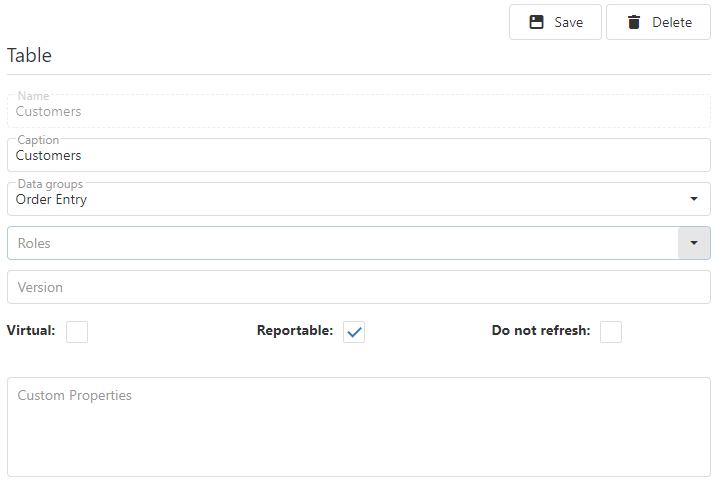
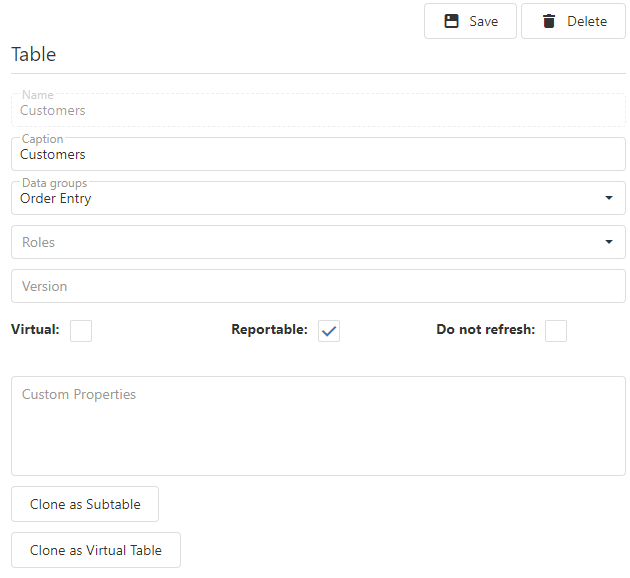
Updated topics for subtable and virtual table for new creation method. Updated screenshots.

diff --git a/_docs/studio/datadictionary/creating-a-subtable.md b/_docs/studio/datadictionary/creating-a-subtable.md
@@ -31,9 +31,9 @@ Horizon Reports provides the ability to define aliases for tables by defining a 
 
 Subtables aren't just useful for multiple relationships between a pair of tables; they can also be used for self-joins. For example, you may have an Employees table that includes a ManagerID field which contains the ID for another employee record representing the employee's manager. In this case, create a subtable of Employees called Managers and define a relationship between them matching the ManagerID field from Employees with the ID field from Managers. You may also want only certain fields in Managers to be available, such as their name, since salary, department, and other fields can be obtained from the appropriate Employees record. You may also set a Filter for Managers, something like Managers.IsManager = 1.
 
-To create a subtable for a table, click the Add button (![](/assets/images/addbutton.png)) beside the Tables node in the TreeView. A dialog will appear where you can specify the type of new table (choose subtable). Enter the desired name for the subtable and the table to use as a base. Studio creates a copy of the table and all of its fields and relations.
+To create a subtable for a table, first navigate to the properties for the table. There, use the *Clone as Subtable* button to create the subtable. Next, you are prompted to enter the desired name for the subtable. Studio then creates a copy of the table and all of its fields and relations.
 
-![](/assets/images/SUBTABLE.PNG)
+![](/assets/images/subtable.png)
 
 In addition to the [usual properties]({% link _docs/studio/datadictionary/table-properties.md %}) for tables, subtables also have the following properties:
 

diff --git a/_docs/studio/datadictionary/creating-a-virtual-table.md b/_docs/studio/datadictionary/creating-a-virtual-table.md
@@ -10,7 +10,7 @@ A virtual table is one you define in the data dictionary and doesn't physically 
 
 Virtual tables are typically used to hide the complexity of an application's data structures. For example, if you have individual invoices and credit notes tables, you may wish to create a virtual table that combines records from both tables. That would make reporting much easier for the user.
 
-To create a virtual table, click the Add button (![](/assets/images/addbutton.png)) beside the Tables node in the TreeView. A dialog will appear where you can specify the type of new table (choose virtual table). Enter the desired name for the new table. You can optionally copy the fields from an existing table. Studio creates a copy of the table and all of its fields and relations.
+You can create a new virtual table from scratch, or you can clone an existing table as a virtual table and then make the desired changes. To create a virtual table from scratch, click the Add button (![](/assets/images/addbutton.png)) beside the Tables node in the TreeView. Alternately, you can copy the fields and relations from an existing table by using the *Clone as Virtual Table* button from the table properties section of an existing table.
 
 A virtual table needs a plugin that specifies how to retrieve data for the virtual table. There are several built-in plugins, such as ones that retrieve data using a SQL statement or from Microsoft Excel speadsheet; see the [Table Properties]({% link _docs/studio/datadictionary/table-properties.md %}) help topic for information on these plugins. You can also create your own [custom plugin]({% link _docs/plugins/virtualtable/index.md %}).
 
